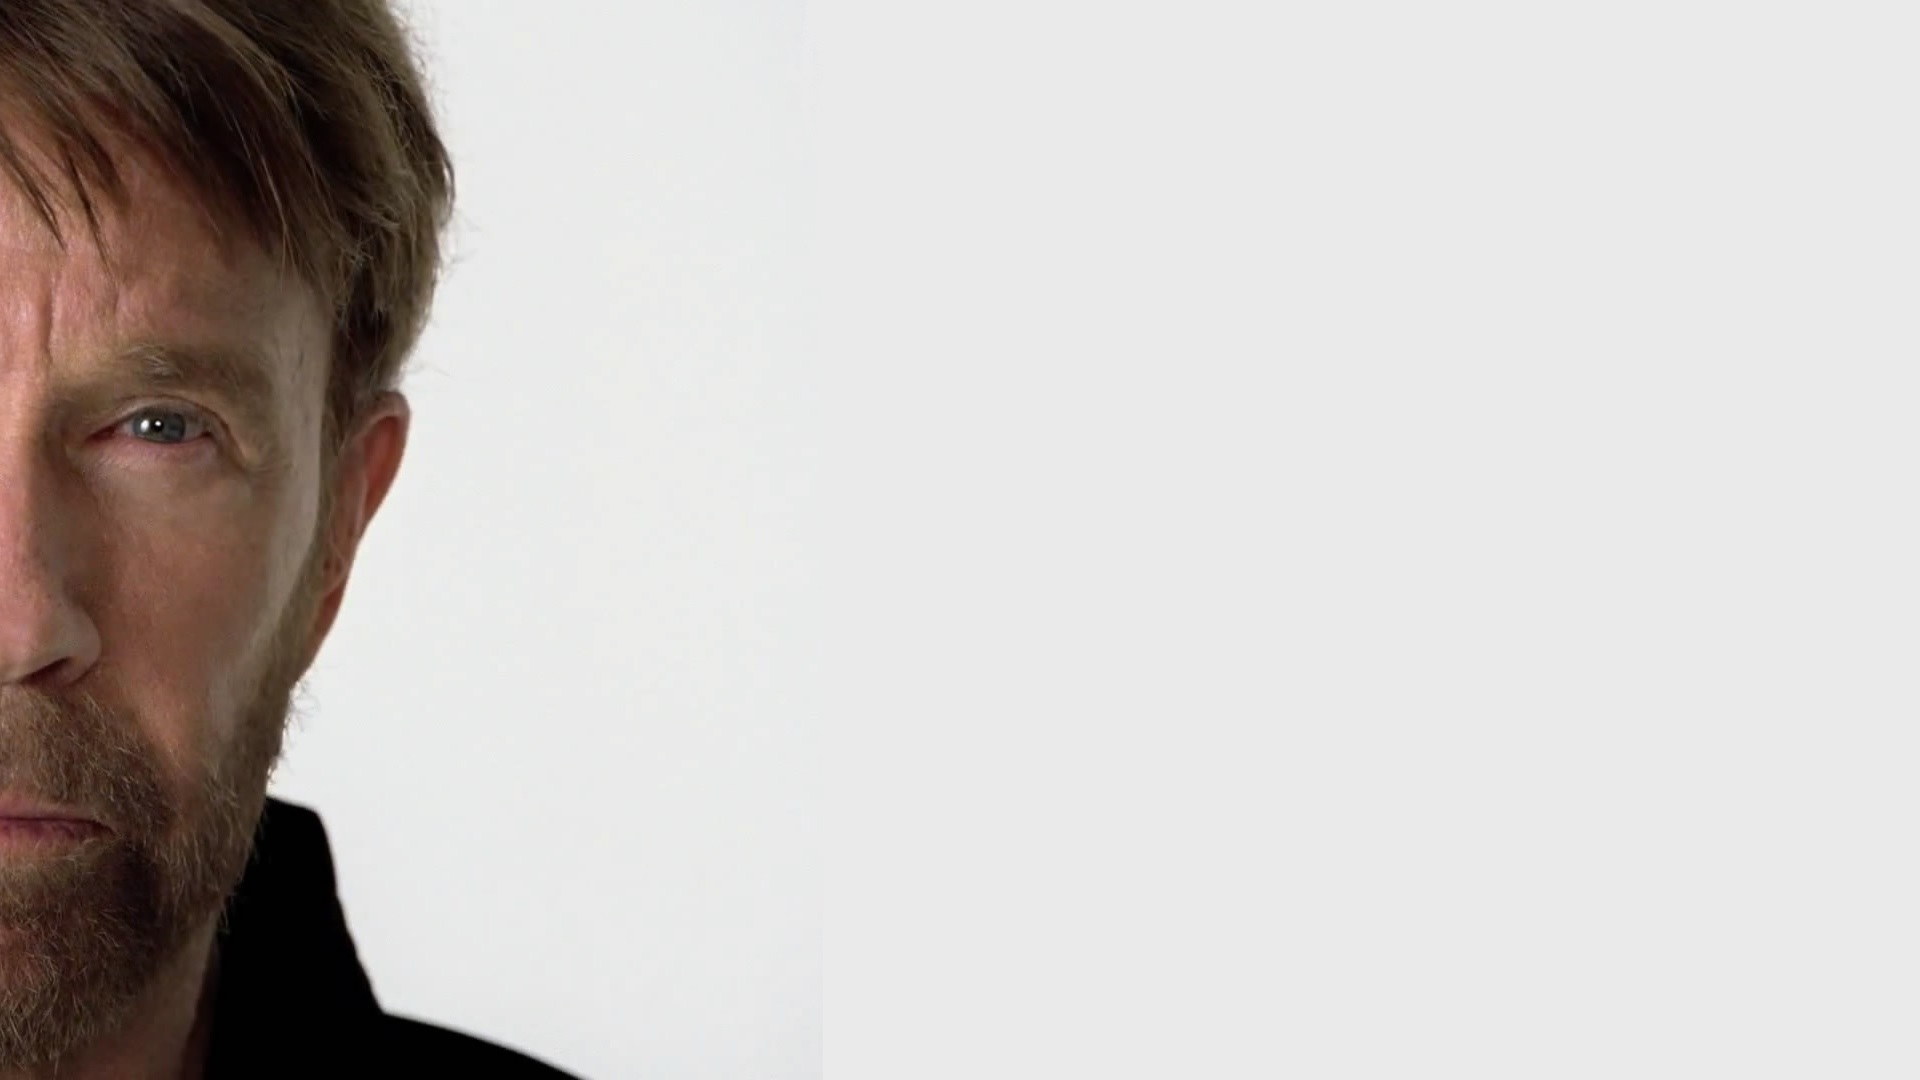
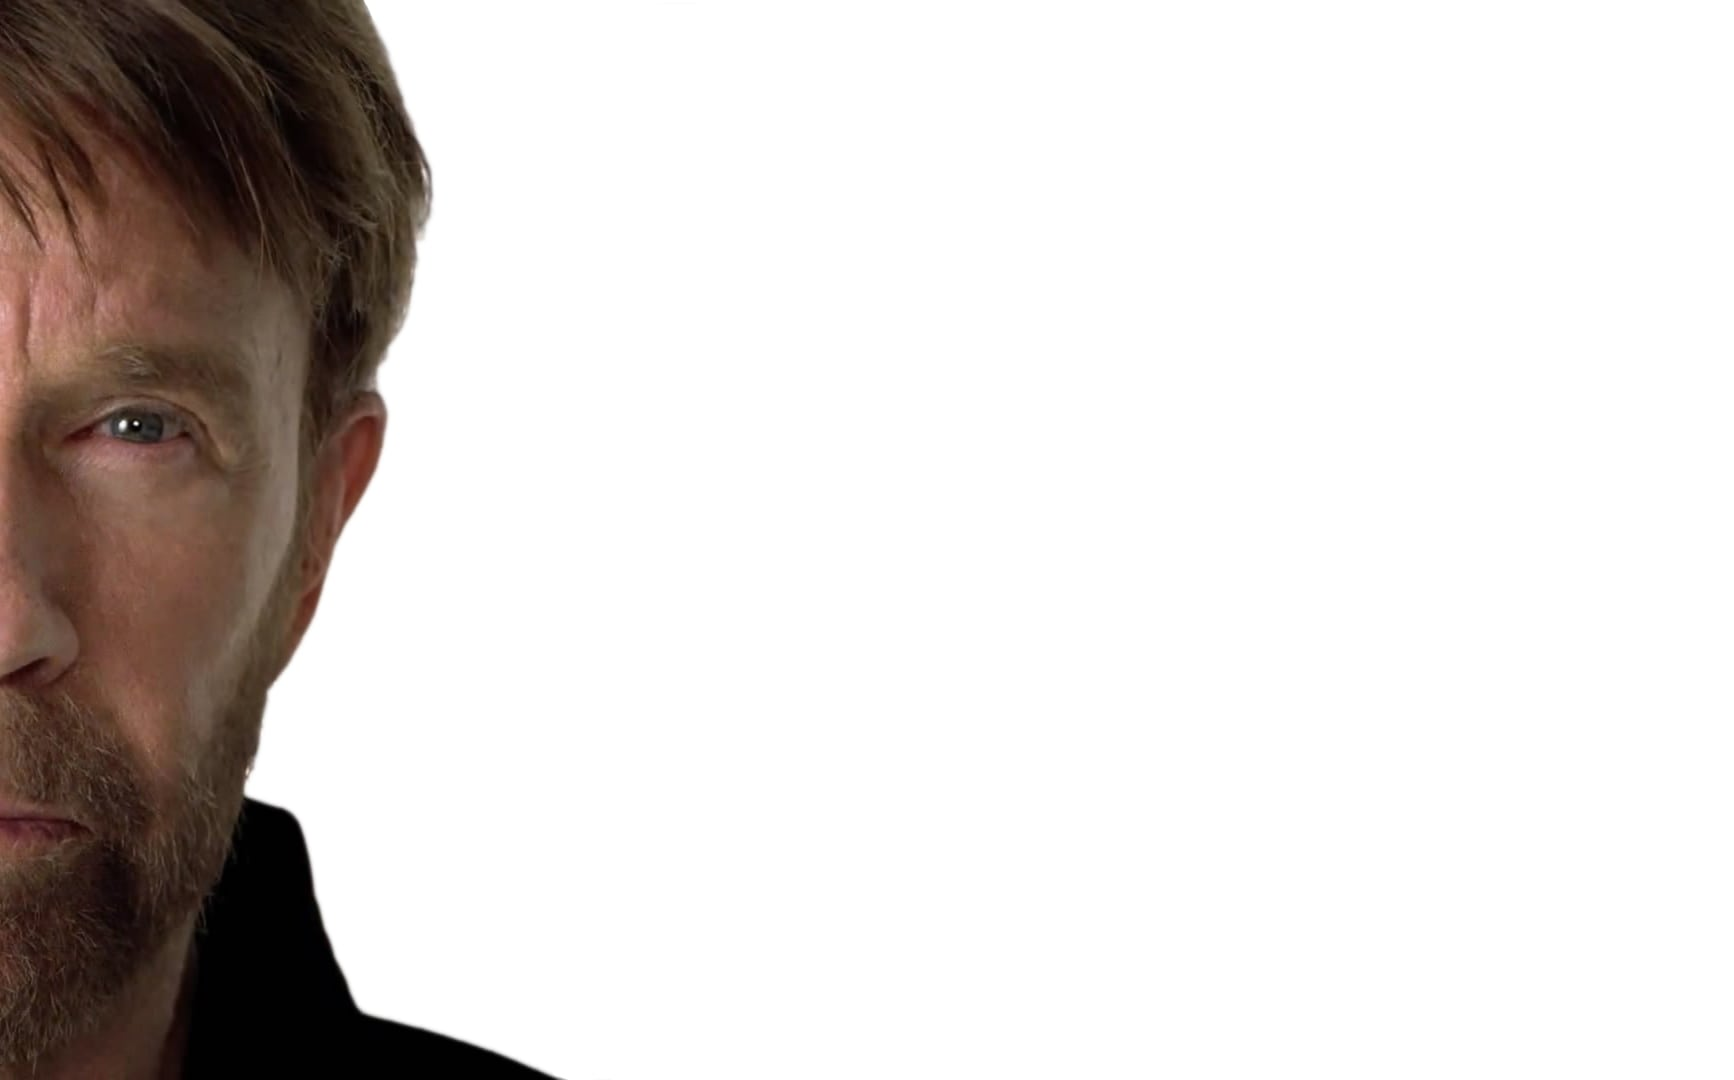
Functioning project after ~11 hours of coding.

diff --git a/jokes.html b/jokes.html
@@ -1,0 +1,85 @@
+<!doctype html>
+
+<html class="full-background" lang="en">
+
+<head>
+  <title>Chuck Norris Random Joke Generator</title>
+
+  <meta charset="utf-8">
+  <meta name=viewport content="width=device-width, initial-scale=1">
+
+  <!-- OG properties -->
+  <meta property="fb:app_id" content="442837305905188" />
+  <meta property="og:url" content="http://www.jwaynedavidson.com/projects/chuck-norris/jokes.html" />
+  <meta property="og:title" content="Chuck Norris Random Joke Generator" />
+  <meta property="og:image" content="http://www.jwaynedavidson.com/projects/chuck-norris/img/chuck-norris-left.jpg" />
+
+  <!-- Links -->
+  <link rel="shortcut icon" href="../../favicon.ico">
+  <link rel="stylesheet" href="https://maxcdn.bootstrapcdn.com/bootstrap/3.3.6/css/bootstrap.min.css" />
+  <link rel="stylesheet" href="https://maxcdn.bootstrapcdn.com/font-awesome/4.6.1/css/font-awesome.min.css">
+  <link rel="stylesheet" href="./css/style.css" />
+  <link href='https://fonts.googleapis.com/css?family=Open+Sans' rel='stylesheet' type='text/css'>
+  <script src="../../scripts/gatracking.js"></script>
+</head>
+
+
+<body>
+
+  <div class="container-fluid">
+    <!--Quote Panel-->
+    <div class="row" id="main-row">
+      <div class="col-md-6 col-md-offset-5">
+        <div class="row panel panel-default panel-body">
+
+          <div class="row" id="button-block">
+            <div class="col-xs-10 col-xs-offset-1 text-center">
+              <button id="get-joke-btn" type="button" class="btn btn-black btn-lg">Get Another!</button>
+            </div>
+          </div>
+
+          <div class="row" id="joke-block">
+            <div class="col-xs-10 col-xs-offset-1 text-center">
+              <i class="fa fa-quote-left fa-lg" aria-hidden="true"></i>
+              <span id="joke-text"></span>
+              <i class="fa fa-quote-right fa-lg" aria-hidden="true"></i>
+            </div>
+          </div>
+
+          <div class="row" id="social-block">
+            <div class="col-xs-10 col-xs-offset-1 text-center">
+
+              <!-- Twitter link -->
+              <a class="icon-link" id="tweet-link" href="http://twitter.com/home/?status=Random%20Chuck%20Norris%20Jokes%3F%20Oh%2C%20yeah!%20%23chucknorris%20http%3A%2F%2Fwww.jwaynedavidson.com%2Fprojects%2Fchuck-norris%2Fjokes.html" target="_blank">
+                <i class="fa fa-twitter fa-2x" aria-hidden="true"></i></a>
+
+              <!-- Facebook link -->
+              <a class="icon-link" id="fb-share-link" href="https://www.facebook.com/sharer/sharer.php?u=http://www.jwaynedavidson.com/projects/chuck-norris/jokes.html" target="_blank">
+                <i class="fa fa-facebook fa-2x" aria-hidden="true"></i></a>
+
+              <!-- Pinterest link -->
+              <a class="icon-link" id="pin-link" href="http://pinterest.com/pin/create/button/?url=http%3A%2F%2Fwww.jwaynedavidson.com%2Fprojects%2Fchuck-norris%2Fjokes.html&media=http%3A%2F%2Fwww.jwaynedavidson.com%2Fprojects%2Fchuck-norris%2Fimg%2Fchuck-norris-left.jpg&description=Chuck%20Norris%20Random%20Joke%20Generator"
+                  target="_blank">
+                <i class="fa fa-pinterest fa-2x" aria-hidden="true"></i></a>
+
+            </div>
+          </div>
+
+          <div class="row" id="credits-block">
+            <div class="col-xs-10 col-xs-offset-1 text-center">
+              Coded by <a href="http://www.jwaynedavidson.com">Joshua Davidson</a>
+              <br> Joke #<span id="joke-number"></span> from <a href="http://www.icndb.com/">http://www.icndb.com/</a>
+              <br> <a href="https://www.flickr.com/photos/92147157@N07/8377019152">"Chuck Norris"</a> by <a href="https://www.flickr.com/photos/92147157@N07/">Jason H. Smith</a>
+              <br>used under <a href="https://creativecommons.org/licenses/by-sa/2.0/">CC BY</a> / Cropped &amp; resized from original
+            </div>
+          </div>
+
+        </div>
+      </div>
+    </div>
+
+    <script src="https://ajax.googleapis.com/ajax/libs/jquery/2.2.2/jquery.min.js"></script>
+    <script src="https://maxcdn.bootstrapcdn.com/bootstrap/3.3.6/js/bootstrap.min.js"></script>
+    <script src="./scripts/main.js"></script>
+
+</body>

diff --git a/css/style.css b/css/style.css
@@ -1,0 +1,107 @@
+/*Add a full page background image for use in html tagtest*/
+
+body {
+  font-family: 'Open-Sans', sans-serif;
+  background: transparent;
+  color: black;
+}
+h2 {
+  margin-top: 5px;
+  margin-bottom: 5px;
+}
+a {
+  text-decoration: none;
+}
+a:link {
+  color: black;
+}
+a:visited {
+  color: black;
+}
+a:hover {
+  color: rgb(50, 50, 50);
+}
+a:active {
+  color: white;
+}
+
+/* IDs */
+
+#joke-block {
+  font-size: 25px;
+}
+#button-block {
+  font-size: 25px;
+}
+#social-block {
+  font-size: 25px;
+}
+#credits-block {
+  font-size: 10px;
+}
+#main-row {
+  margin: 20% auto auto auto;
+}
+
+/* Created classes*/
+
+@media (min-width: 992px) {
+  .full-background {
+    background: url(../img/chuck-norris-left.jpg) no-repeat left center fixed;
+    -webkit-background-size: cover;
+    -moz-background-size: cover;
+    -o-background-size: cover;
+    background-size: cover;
+  }
+  #main-row {
+    position: relative;
+    margin: 20% auto auto auto;
+  }
+}
+@media (max-width: 991px) {
+  .full-background {
+    background: none;
+  }
+  #main-row {
+    margin: 10px 10px 10px 10px;
+  }
+}
+.icon-link {
+  color: inherit;
+  text-decoration: none;
+}
+.btn-black {
+  color: #ffffff;
+  background-color: #000000;
+  border-color: #000000;
+}
+
+/* Custom Bootstrap button */
+
+.btn-black:hover, .btn-black:focus, .btn-black:active, .btn-black.active, .open .dropdown-toggle.btn-black {
+  color: #ffffff;
+  background-color: #323232;
+  border-color: #000000;
+}
+.btn-black:active, .btn-black.active, .open .dropdown-toggle.btn-black {
+  background-image: none;
+}
+.btn-black.disabled, .btn-black[disabled], fieldset[disabled] .btn-black, .btn-black.disabled:hover, .btn-black[disabled]:hover, fieldset[disabled] .btn-black:hover, .btn-black.disabled:focus, .btn-black[disabled]:focus, fieldset[disabled] .btn-black:focus, .btn-black.disabled:active, .btn-black[disabled]:active, fieldset[disabled] .btn-black:active, .btn-black.disabled.active, .btn-black[disabled].active, fieldset[disabled] .btn-black.active {
+  background-color: #000000;
+  border-color: #000000;
+}
+.btn-black .badge {
+  color: #000000;
+  background-color: #ffffff;
+}
+
+/* Modified bootstrap classes */
+
+.panel {
+  background-color: white;
+  border-color: white;
+}
+.row {
+  padding-top: 5px;
+  padding-bottom: 5px;
+}

diff --git a/scripts/main.js b/scripts/main.js
@@ -1,0 +1,42 @@
+//Global variable for current joke.
+var currJoke = "";
+//function that pulls a joke and formats it for readability.
+function getNewJoke() {
+  $.getJSON("http://api.icndb.com/jokes/random?exclude=[explicit]", function(json) {
+    currJoke = json.value.joke;
+    $("#joke-text").html(json.value.joke);
+    $("#joke-number").html(json.value.id)
+  });
+}
+
+$(document).ready(function() {
+  getNewJoke(); //Load a joke when page loads.
+
+  $("#get-joke-btn").mouseup(function() {
+    $(this).blur();
+  });
+
+  //Open the twitter window as a popup
+  $("#tweet-link").click(function(event) {
+    event.preventDefault();
+    window.open($(this).attr("href"), "tweetWindow", "height=450, width=550, top=" + ($(window).height() / 2 - 275) + ", left=" + ($(window).width() / 2 - 225) + ", toolbar=0, location=0, menubar=0, directories=0, scrollbars=0");
+    return false;
+  });
+
+  //Open the facebook window as a popup
+  $("#fb-share-link").click(function(event) {
+    event.preventDefault();
+    window.open($(this).attr("href"), "shareWindow", "height=450, width=550, top=" + ($(window).height() / 2 - 275) + ", left=" + ($(window).width() / 2 - 225) + ", toolbar=0, location=0, menubar=0, directories=0, scrollbars=0");
+    return false;
+  });
+
+  //Open the pinterest window as a popup
+  $("#pin-link").click(function(event) {
+    event.preventDefault();
+    window.open($(this).attr("href"), "pinWindow", "height=450, width=550, top=" + ($(window).height() / 2 - 275) + ", left=" + ($(window).width() / 2 - 225) + ", toolbar=0, location=0, menubar=0, directories=0, scrollbars=0");
+    return false;
+  });
+
+  $("#get-joke-btn").on("click", getNewJoke); //Load a joke when the button is clicked.
+
+});
